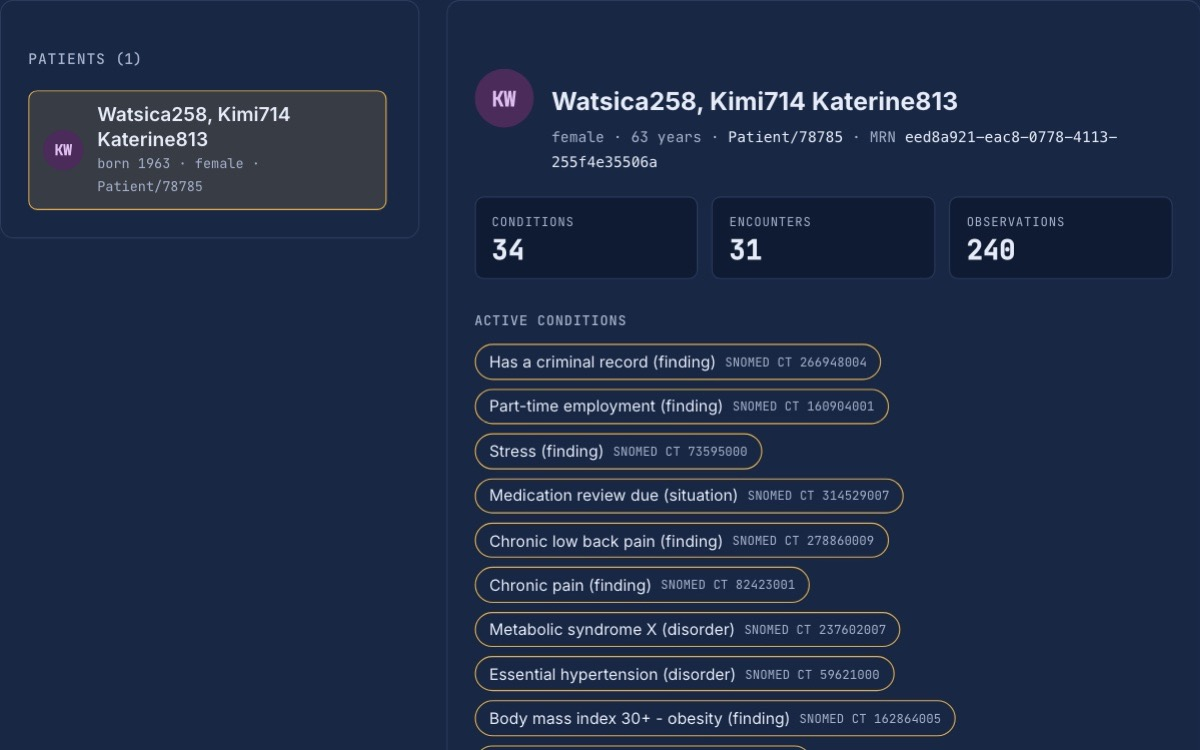
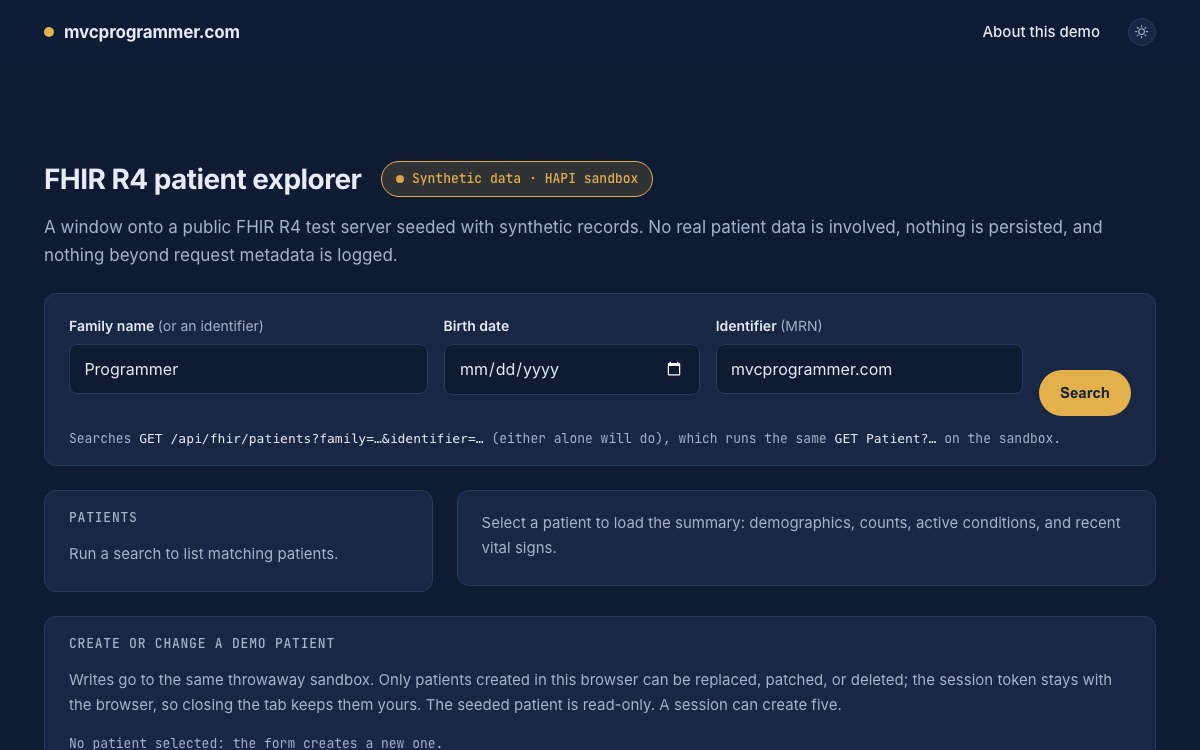
Portfolio: retake the FHIR API and Patient Portal card images in dark mode
The FHIR API card shows the explorer as it opens: header, search form with the demo values, and the start of the create panel. The Patient Portal card keeps its Medications framing, now in dark mode. Alt text on both cards is updated in all four editions to describe the new images.

Refs #300

diff --git a/index.html b/index.html
@@ -354,7 +354,7 @@
                opens in the same demo dialog as the kiosk, so this page makes no FHIR request itself. -->
           <article class="card portfolio-card" id="fhir-api">
             <div class="card-media">
-              <img src="assets/images/portfolio/fhir-explorer.jpg" alt="The FHIR R4 patient explorer at fhir.mvcprogrammer.com in dark mode, showing a synthetic patient's summary: counts and active conditions with SNOMED codes" width="1200" height="750" loading="lazy" decoding="async">
+              <img src="assets/images/portfolio/fhir-explorer.jpg" alt="The FHIR R4 patient explorer at fhir.mvcprogrammer.com in dark mode, as it opens: the search form prefilled with the demo family name and identifier, above the panel for creating a demo patient" width="1200" height="750" loading="lazy" decoding="async">
             </div>
             <div class="card-body">
               <h3>FHIR API</h3>
@@ -388,7 +388,7 @@
 
           <article class="card portfolio-card">
             <div class="card-media">
-              <img src="assets/images/portfolio/patient-portal.jpg" alt="The patient portal demonstration at portal.mvcprogrammer.com, showing an invented patient's Medications page: two current prescriptions and one past, with when the list was read and when it may be refreshed" width="1200" height="750" loading="lazy" decoding="async">
+              <img src="assets/images/portfolio/patient-portal.jpg" alt="The patient portal demonstration at portal.mvcprogrammer.com in dark mode, showing an invented patient's Medications page: two current prescriptions and one past, with when the list was read" width="1200" height="750" loading="lazy" decoding="async">
             </div>
             <div class="card-body">
               <h3>Patient Portal</h3>

diff --git a/angular/src/app/sections/portfolio-section/portfolio-section.html b/angular/src/app/sections/portfolio-section/portfolio-section.html
@@ -40,7 +40,7 @@
            opens it in the demo dialog, so nothing FHIR-related loads until a visitor asks. -->
       <article class="card portfolio-card" id="fhir-api">
         <div class="card-media">
-          <img src="assets/images/portfolio/fhir-explorer.jpg" alt="The FHIR R4 patient explorer at fhir.mvcprogrammer.com in dark mode, showing a synthetic patient's summary: counts and active conditions with SNOMED codes" width="1200" height="750" loading="lazy" decoding="async">
+          <img src="assets/images/portfolio/fhir-explorer.jpg" alt="The FHIR R4 patient explorer at fhir.mvcprogrammer.com in dark mode, as it opens: the search form prefilled with the demo family name and identifier, above the panel for creating a demo patient" width="1200" height="750" loading="lazy" decoding="async">
         </div>
         <div class="card-body">
           <h3>FHIR API</h3>
@@ -74,7 +74,7 @@
 
       <article class="card portfolio-card">
         <div class="card-media">
-          <img src="assets/images/portfolio/patient-portal.jpg" alt="The patient portal demonstration at portal.mvcprogrammer.com, showing an invented patient's Medications page: two current prescriptions and one past, with when the list was read and when it may be refreshed" width="1200" height="750" loading="lazy" decoding="async">
+          <img src="assets/images/portfolio/patient-portal.jpg" alt="The patient portal demonstration at portal.mvcprogrammer.com in dark mode, showing an invented patient's Medications page: two current prescriptions and one past, with when the list was read" width="1200" height="750" loading="lazy" decoding="async">
         </div>
         <div class="card-body">
           <h3>Patient Portal</h3>

diff --git a/react/src/app/sections/PortfolioSection.tsx b/react/src/app/sections/PortfolioSection.tsx
@@ -99,7 +99,7 @@ export function PortfolioSection() {
               <div className="card-media">
                 <img
                   src="assets/images/portfolio/fhir-explorer.jpg"
-                  alt="The FHIR R4 patient explorer at fhir.mvcprogrammer.com in dark mode, showing a synthetic patient's summary: counts and active conditions with SNOMED codes"
+                  alt="The FHIR R4 patient explorer at fhir.mvcprogrammer.com in dark mode, as it opens: the search form prefilled with the demo family name and identifier, above the panel for creating a demo patient"
                   width="1200"
                   height="750"
                   loading="lazy"
@@ -175,7 +175,7 @@ export function PortfolioSection() {
               <div className="card-media">
                 <img
                   src="assets/images/portfolio/patient-portal.jpg"
-                  alt="The patient portal demonstration at portal.mvcprogrammer.com, showing an invented patient's Medications page: two current prescriptions and one past, with when the list was read and when it may be refreshed"
+                  alt="The patient portal demonstration at portal.mvcprogrammer.com in dark mode, showing an invented patient's Medications page: two current prescriptions and one past, with when the list was read"
                   width="1200"
                   height="750"
                   loading="lazy"
